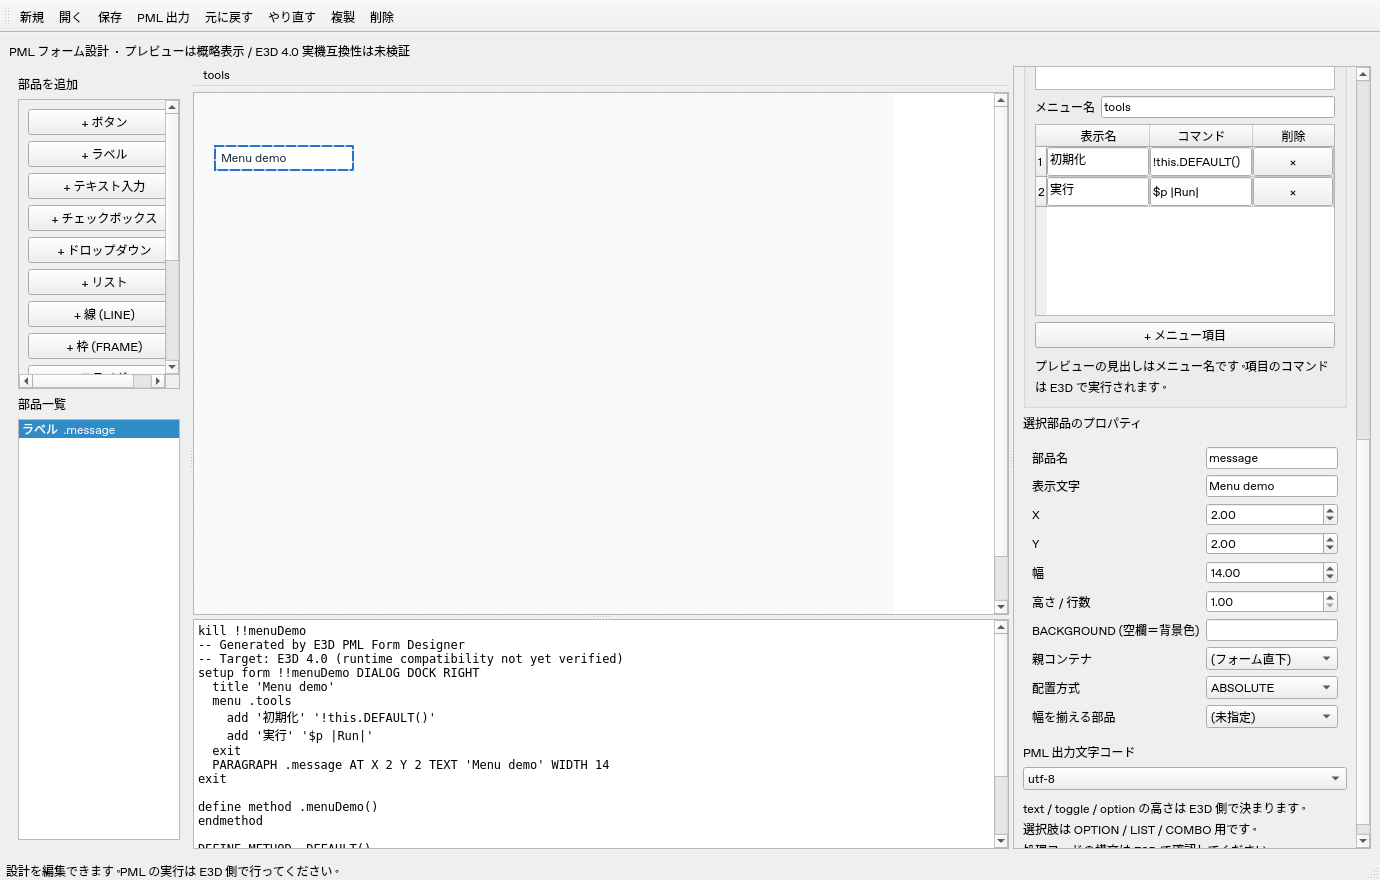
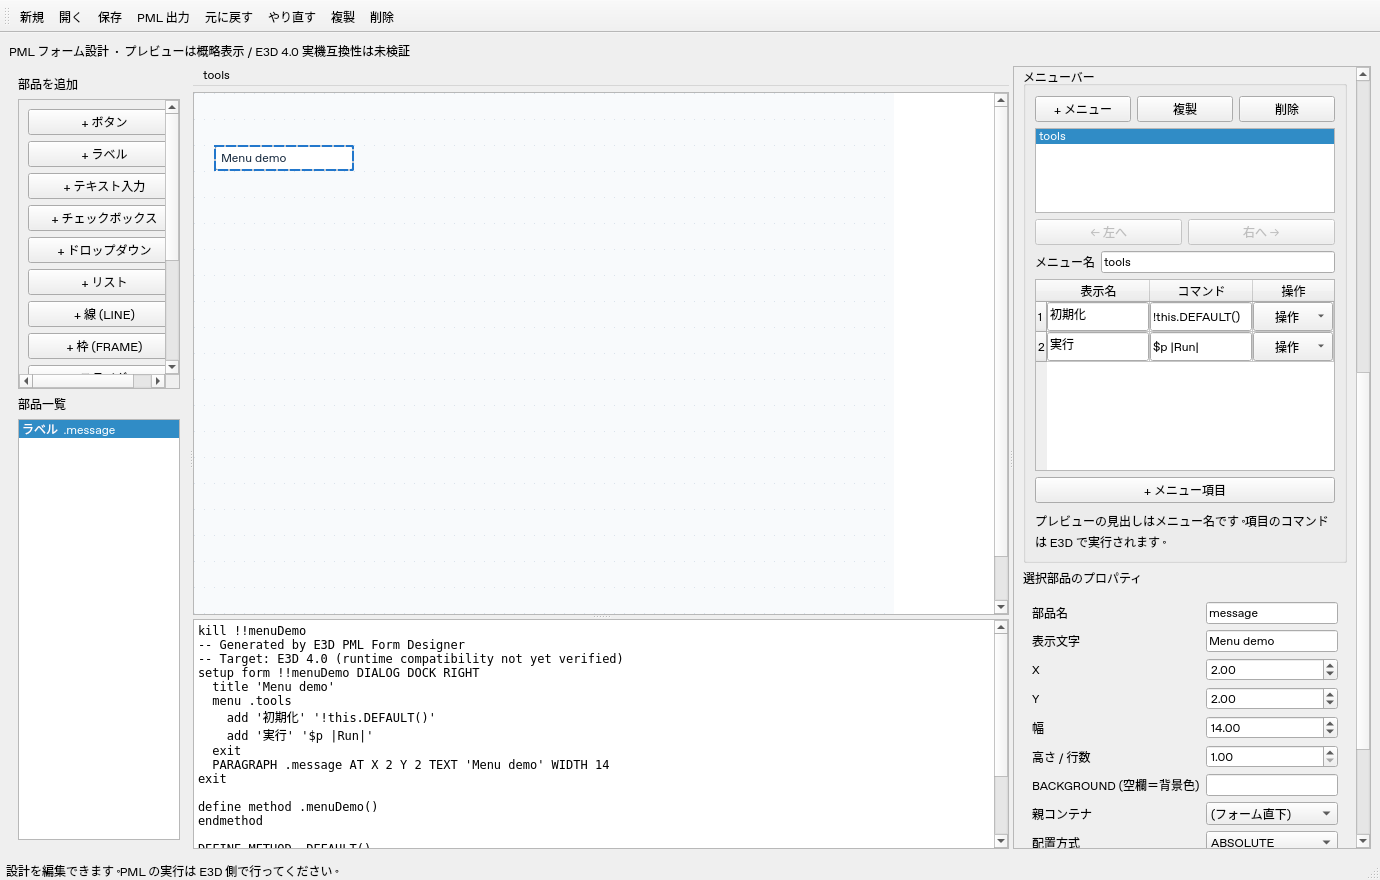
Add menu and menu item ordering and duplication controls

Changed region(s): [[0.7478, 0.0614, 0.9659, 0.9818]]

diff --git a/e3d_designer/app.py b/e3d_designer/app.py
@@ -261,15 +261,22 @@ class Window(QMainWindow):
         rl.addWidget(self.props)
         self.menu_group = QGroupBox('メニューバー'); menu_layout = QVBoxLayout(self.menu_group)
         menu_buttons = QHBoxLayout()
-        for label, handler in (('+ メニュー',self.add_menu),('メニュー削除',self.delete_menu)):
+        self.menu_actions = {}
+        for label, handler, key in (('+ メニュー',self.add_menu,None),('複製',self.duplicate_menu,'duplicate'),('削除',self.delete_menu,'delete')):
             button = QPushButton(label); button.clicked.connect(handler); menu_buttons.addWidget(button)
+            if key: self.menu_actions[key] = button
         menu_layout.addLayout(menu_buttons)
         self.menu_list = QListWidget(); self.menu_list.setMaximumHeight(85)
         self.menu_list.currentRowChanged.connect(self.choose_menu); menu_layout.addWidget(self.menu_list)
+        menu_order = QHBoxLayout()
+        for label, direction, key in (('← 左へ',-1,'left'),('右へ →',1,'right')):
+            button = QPushButton(label); button.clicked.connect(lambda checked=False, d=direction: self.move_menu(d))
+            self.menu_actions[key] = button; menu_order.addWidget(button)
+        menu_layout.addLayout(menu_order)
         menu_name_layout = QFormLayout(); self.menu_name = QLineEdit()
         self.menu_name.textEdited.connect(self.update_menu_name)
         menu_name_layout.addRow('メニュー名',self.menu_name); menu_layout.addLayout(menu_name_layout)
-        self.menu_items = QTableWidget(0,3); self.menu_items.setHorizontalHeaderLabels(['表示名','コマンド','削除'])
+        self.menu_items = QTableWidget(0,3); self.menu_items.setHorizontalHeaderLabels(['表示名','コマンド','操作'])
         self.menu_items.horizontalHeader().setSectionResizeMode(0,QHeaderView.Stretch)
         self.menu_items.horizontalHeader().setSectionResizeMode(1,QHeaderView.Stretch)
         self.menu_items.horizontalHeader().setSectionResizeMode(2,QHeaderView.ResizeToContents)
@@ -324,6 +331,9 @@ class Window(QMainWindow):
         self.menu_list.addItems([menu.name for menu in self.form.menus])
         self.menu_list.setCurrentRow(self.selected_menu if self.selected_menu is not None else -1)
         menu = self.current_menu()
+        for key in ('duplicate','delete'): self.menu_actions[key].setEnabled(menu is not None)
+        self.menu_actions['left'].setEnabled(menu is not None and self.selected_menu > 0)
+        self.menu_actions['right'].setEnabled(menu is not None and self.selected_menu < len(self.form.menus)-1)
         self.menu_name.setEnabled(menu is not None); self.menu_items.setEnabled(menu is not None)
         self.menu_add_item.setEnabled(menu is not None)
         name = menu.name if menu else ''
@@ -337,9 +347,14 @@ class Window(QMainWindow):
                 editor = QLineEdit(getattr(item,key))
                 editor.textEdited.connect(lambda text, r=row, k=key: self.update_menu_item(r,k,text))
                 self.menu_items.setCellWidget(row,column,editor)
-            remove = QPushButton('×')
-            remove.clicked.connect(lambda checked=False, r=row: self.delete_menu_item(r))
-            self.menu_items.setCellWidget(row,2,remove)
+            operations = QPushButton('操作'); popup = QMenu(operations)
+            for label, handler, enabled in (
+                    ('上へ',lambda checked=False, r=row: self.move_menu_item(r,-1),row > 0),
+                    ('下へ',lambda checked=False, r=row: self.move_menu_item(r,1),row < len(menu.items)-1),
+                    ('複製',lambda checked=False, r=row: self.duplicate_menu_item(r),True),
+                    ('削除',lambda checked=False, r=row: self.delete_menu_item(r),True)):
+                action = popup.addAction(label); action.triggered.connect(handler); action.setEnabled(enabled)
+            operations.setMenu(popup); self.menu_items.setCellWidget(row,2,operations)
 
     def choose_menu(self, index):
         if self.loading: return
@@ -362,6 +377,22 @@ class Window(QMainWindow):
         self.checkpoint(); self.form.menus.pop(self.selected_menu)
         self.refresh()
 
+    def duplicate_menu(self):
+        menu = self.current_menu()
+        if menu is None: return
+        self.checkpoint(); duplicate = copy.deepcopy(menu)
+        duplicate.name = self.unique_name('menu')
+        self.selected_menu += 1
+        self.form.menus.insert(self.selected_menu,duplicate); self.refresh()
+
+    def move_menu(self, direction):
+        if self.current_menu() is None or direction not in (-1,1): return
+        target = self.selected_menu + direction
+        if not 0 <= target < len(self.form.menus): return
+        self.checkpoint()
+        self.form.menus[self.selected_menu], self.form.menus[target] = self.form.menus[target], self.form.menus[self.selected_menu]
+        self.selected_menu = target; self.refresh()
+
     def update_menu_name(self, text):
         menu = self.current_menu()
         if self.loading or menu is None: return
@@ -381,6 +412,18 @@ class Window(QMainWindow):
         menu = self.current_menu()
         if menu is None or not 0 <= row < len(menu.items): return
         self.checkpoint(); menu.items.pop(row); self.refresh()
+
+    def duplicate_menu_item(self, row):
+        menu = self.current_menu()
+        if menu is None or not 0 <= row < len(menu.items): return
+        self.checkpoint(); menu.items.insert(row+1,copy.deepcopy(menu.items[row])); self.refresh()
+
+    def move_menu_item(self, row, direction):
+        menu = self.current_menu()
+        if menu is None or direction not in (-1,1) or not 0 <= row < len(menu.items): return
+        target = row + direction
+        if not 0 <= target < len(menu.items): return
+        self.checkpoint(); menu.items[row],menu.items[target] = menu.items[target],menu.items[row]; self.refresh()
 
     def update_variables(self):
         if self.loading: return

diff --git a/tests/test_designer.py b/tests/test_designer.py
@@ -348,6 +348,51 @@ class GuiTests(unittest.TestCase):
         self.w.undo();self.assertEqual(len(self.w.form.menus),1)
         self.w.redo();self.assertEqual(self.w.form.menus,[])
 
+    def test_menu_item_actions_reorder_copy_and_roundtrip(self):
+        self.w.form=Form(menus=[Menu(name='tools',items=[MenuItem('A','runA'),MenuItem('B','runB')])])
+        self.w.refresh()
+        actions=self.w.menu_items.cellWidget(0,2).menu().actions()
+        self.assertFalse(actions[0].isEnabled())
+        actions[1].trigger()
+        self.assertEqual([item.label for item in self.w.form.menus[0].items],['B','A'])
+        self.assertEqual([action.text() for action in self.w.preview_menus[0].actions()],['B','A'])
+        pml=self.w.form.pml();self.assertLess(pml.index("add 'B'"),pml.index("add 'A'"))
+        self.w.menu_items.cellWidget(1,2).menu().actions()[2].trigger()
+        self.assertEqual([item.label for item in self.w.form.menus[0].items],['B','A','A'])
+        copied=self.w.menu_items.cellWidget(2,0);copied.setFocus();copied.selectAll();QTest.keyClicks(copied,'Copy')
+        self.assertEqual(self.w.form.menus[0].items[1].label,'A')
+        self.assertEqual(Form.loads(self.w.form.dumps()).menus[0].items[2],MenuItem('Copy','runA'))
+        self.w.menu_items.cellWidget(2,2).menu().actions()[3].trigger()
+        self.assertEqual(len(self.w.form.menus[0].items),2)
+        self.w.undo();self.assertEqual(self.w.form.menus[0].items[2].label,'Copy')
+
+    def test_menu_duplicate_order_controls_and_undo(self):
+        self.assertFalse(self.w.menu_actions['duplicate'].isEnabled())
+        self.w.form=Form(gadgets=[Gadget(name='menu1')],menus=[Menu(name='tools',items=[MenuItem('A','runA')]),Menu(name='other')])
+        self.w.refresh()
+        self.assertFalse(self.w.menu_actions['left'].isEnabled())
+        QTest.mouseClick(self.w.menu_actions['duplicate'],Qt.LeftButton)
+        self.assertEqual([menu.name for menu in self.w.form.menus],['tools','menu2','other'])
+        self.assertEqual(self.w.selected_menu,1)
+        copied=self.w.menu_items.cellWidget(0,1);copied.setFocus();QTest.keyClicks(copied,'Changed')
+        self.assertEqual(self.w.form.menus[0].items[0].command,'runA')
+        QTest.mouseClick(self.w.menu_actions['right'],Qt.LeftButton)
+        self.assertEqual(self.w.selected_menu,2)
+        self.assertFalse(self.w.menu_actions['right'].isEnabled())
+        self.assertEqual([action.text() for action in self.w.preview_menu_bar.actions()],['tools','other','menu2'])
+        self.w.undo();self.assertEqual([menu.name for menu in self.w.form.menus],['tools','menu2','other'])
+        self.w.redo();self.assertEqual([menu.name for menu in Form.loads(self.w.form.dumps()).menus],['tools','other','menu2'])
+
+    def test_menu_reorder_boundaries_do_not_change_history(self):
+        self.w.move_menu(1);self.w.move_menu_item(0,1);self.w.duplicate_menu_item(0)
+        self.assertEqual(self.w.history,[])
+        self.w.add_menu();self.w.add_menu_item()
+        self.w.dirty=False;before=len(self.w.history)
+        for direction in (-1,1,2):
+            self.w.move_menu(direction);self.w.move_menu_item(0,direction)
+        self.w.move_menu_item(-1,1);self.w.duplicate_menu_item(-1)
+        self.assertEqual(len(self.w.history),before);self.assertFalse(self.w.dirty)
+
     def test_menu_switching_rename_and_unique_names(self):
         self.w.add('button');self.w.form.gadgets[0].name='menu1';self.w.refresh()
         self.w.add_menu();self.assertEqual(self.w.form.menus[0].name,'menu2')
